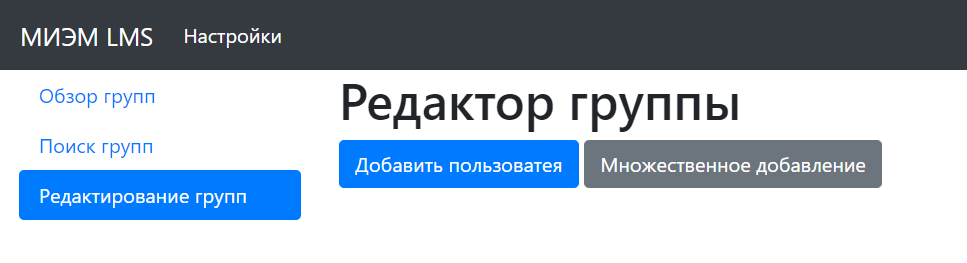
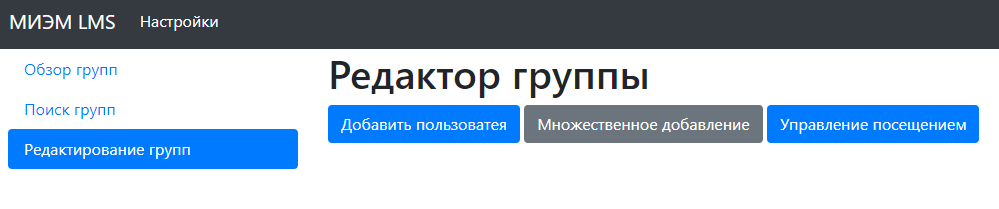
Write text

Changed region(s): [[0.0, 0.2297, 1.0, 0.8612], [0.0, 0.0574, 0.3102, 0.201], [0.031, 0.3158, 0.1861, 0.4019]]

diff --git a/Text/main.tex b/Text/main.tex
@@ -371,6 +371,8 @@ Moodle - крупнейшая и самая популярная система 
 
 Новая система должна хранить расписание занятий для ускорения обработки данных.
 Кроме того, каждый курс должен знать информацию о номере группы в РУЗе для получения обновлений.
+Информация в расписании учебных занятий может постоянно изменяться, а учёт посещаемости необходимо проводить для существующих занятий и не подлежит изменению.
+Так же необходимо запоминать информацию о посещённых занятиях.
 На первый взгляд, логичным решением будет добавление дополнительного атрибута в таблицу курса, который будет указывать на номер группы, однако такое решение может повлиять на внутреннюю работу системы Moodle, поэтому было решено создать дополнительную таблицу со связью 1 к 1 с таблицей курса.
 Дополнительно была создана таблица для хранения кэшей расписание, содержащая основные атрибуты, возвращаемые сервисом расписания, и номер группы, к которой относится конкретное занятий (Рис. \ref{img:db_struct}).
 
@@ -553,7 +555,11 @@ Moodle имеет богатую библиотеку плагинов, позв
 	\label{img:ui_newGroup}
 \end{figure}
 
-Страница редактора группы (\url{/ruz/editGroup.php}) (Рис. \ref{img:ui_groupEditor}) позволят записать единичного пользователя (Рис. \ref{img:ui_newUser}) или перейти на страницу с возможностью загрузки нескольких пользователей одновременно.
+Страница редактора группы (\url{/ruz/editGroup.php}) (Рис. \ref{img:ui_groupEditor}) позволят записать единичного пользователя (Рис. \ref{img:ui_newUser}),  перейти на страницу с возможностью загрузки нескольких пользователей одновременно или управлять посещаемостью группы (Рис. \ref{img:ui_visits}).
+В редакторе посещаемости выводится таблица, по горизонтальной оси которой расположен список предусмотренных занятий, по вертикальной -- список учеников, записанных на данный курс. 
+В узлах таблицы расположены ячейки со значением посещаемости. 
+При нажатии на ячейку происходит смена статуса посещения пользователем занятий -- пришел заменяется на отсутствовал и наоборот. 
+Данная команда сначала отправляется от клиента на сервер, далее обрабатывается и, в случае успеха, изменяет состояние у клиента.
 
 \begin{figure}[H]
 	\centering
@@ -566,6 +572,12 @@ Moodle имеет богатую библиотеку плагинов, позв
 	\includegraphics[width=\linewidth]{image/ui_newUser}
 	\caption{Форма записи пользователя}
 	\label{img:ui_newUser}
+\end{figure}
+\begin{figure}[H]
+	\centering
+	\includegraphics[width=\linewidth]{image/ui_visits}
+	\caption{Просмотра посещаемости}
+	\label{img:ui_visits}
 \end{figure}
 
 Для служебный действий или автоматизации с другими сервисами предусмотрен API по адресу \url{/ruz/api/*}.
@@ -580,6 +592,12 @@ Moodle имеет богатую библиотеку плагинов, позв
 	\item \url{/ruz/api/ruzDisplay.php} -- отобразить расписание 
 	\item \url{/ruz/api/ruzFetch.php} -- получить свежее расписание с РУЗа (доступно так же в CLI режиме, автоматически выполняется через cron)
 \end{itemize}
+
+Кроме того, для удобства конечных пользователей -- учеников и преподавателей -- была создана страница \url{/ruz/student.php}, содержащая информацию о всех курсах, на которые записан пользователь.
+В отличии от обычной панели администратора, к данному разделу сайта имеют доступ все авторизованные пользователи.
+Информация в данном разделе доступна только для чтения.
+С помощью этой страницы ученики могут просматривать собственные занятия, а преподаватели узнавать расписание преподавания.
+
 % Анализ результатов
 
 % Подтверждение актуальности
